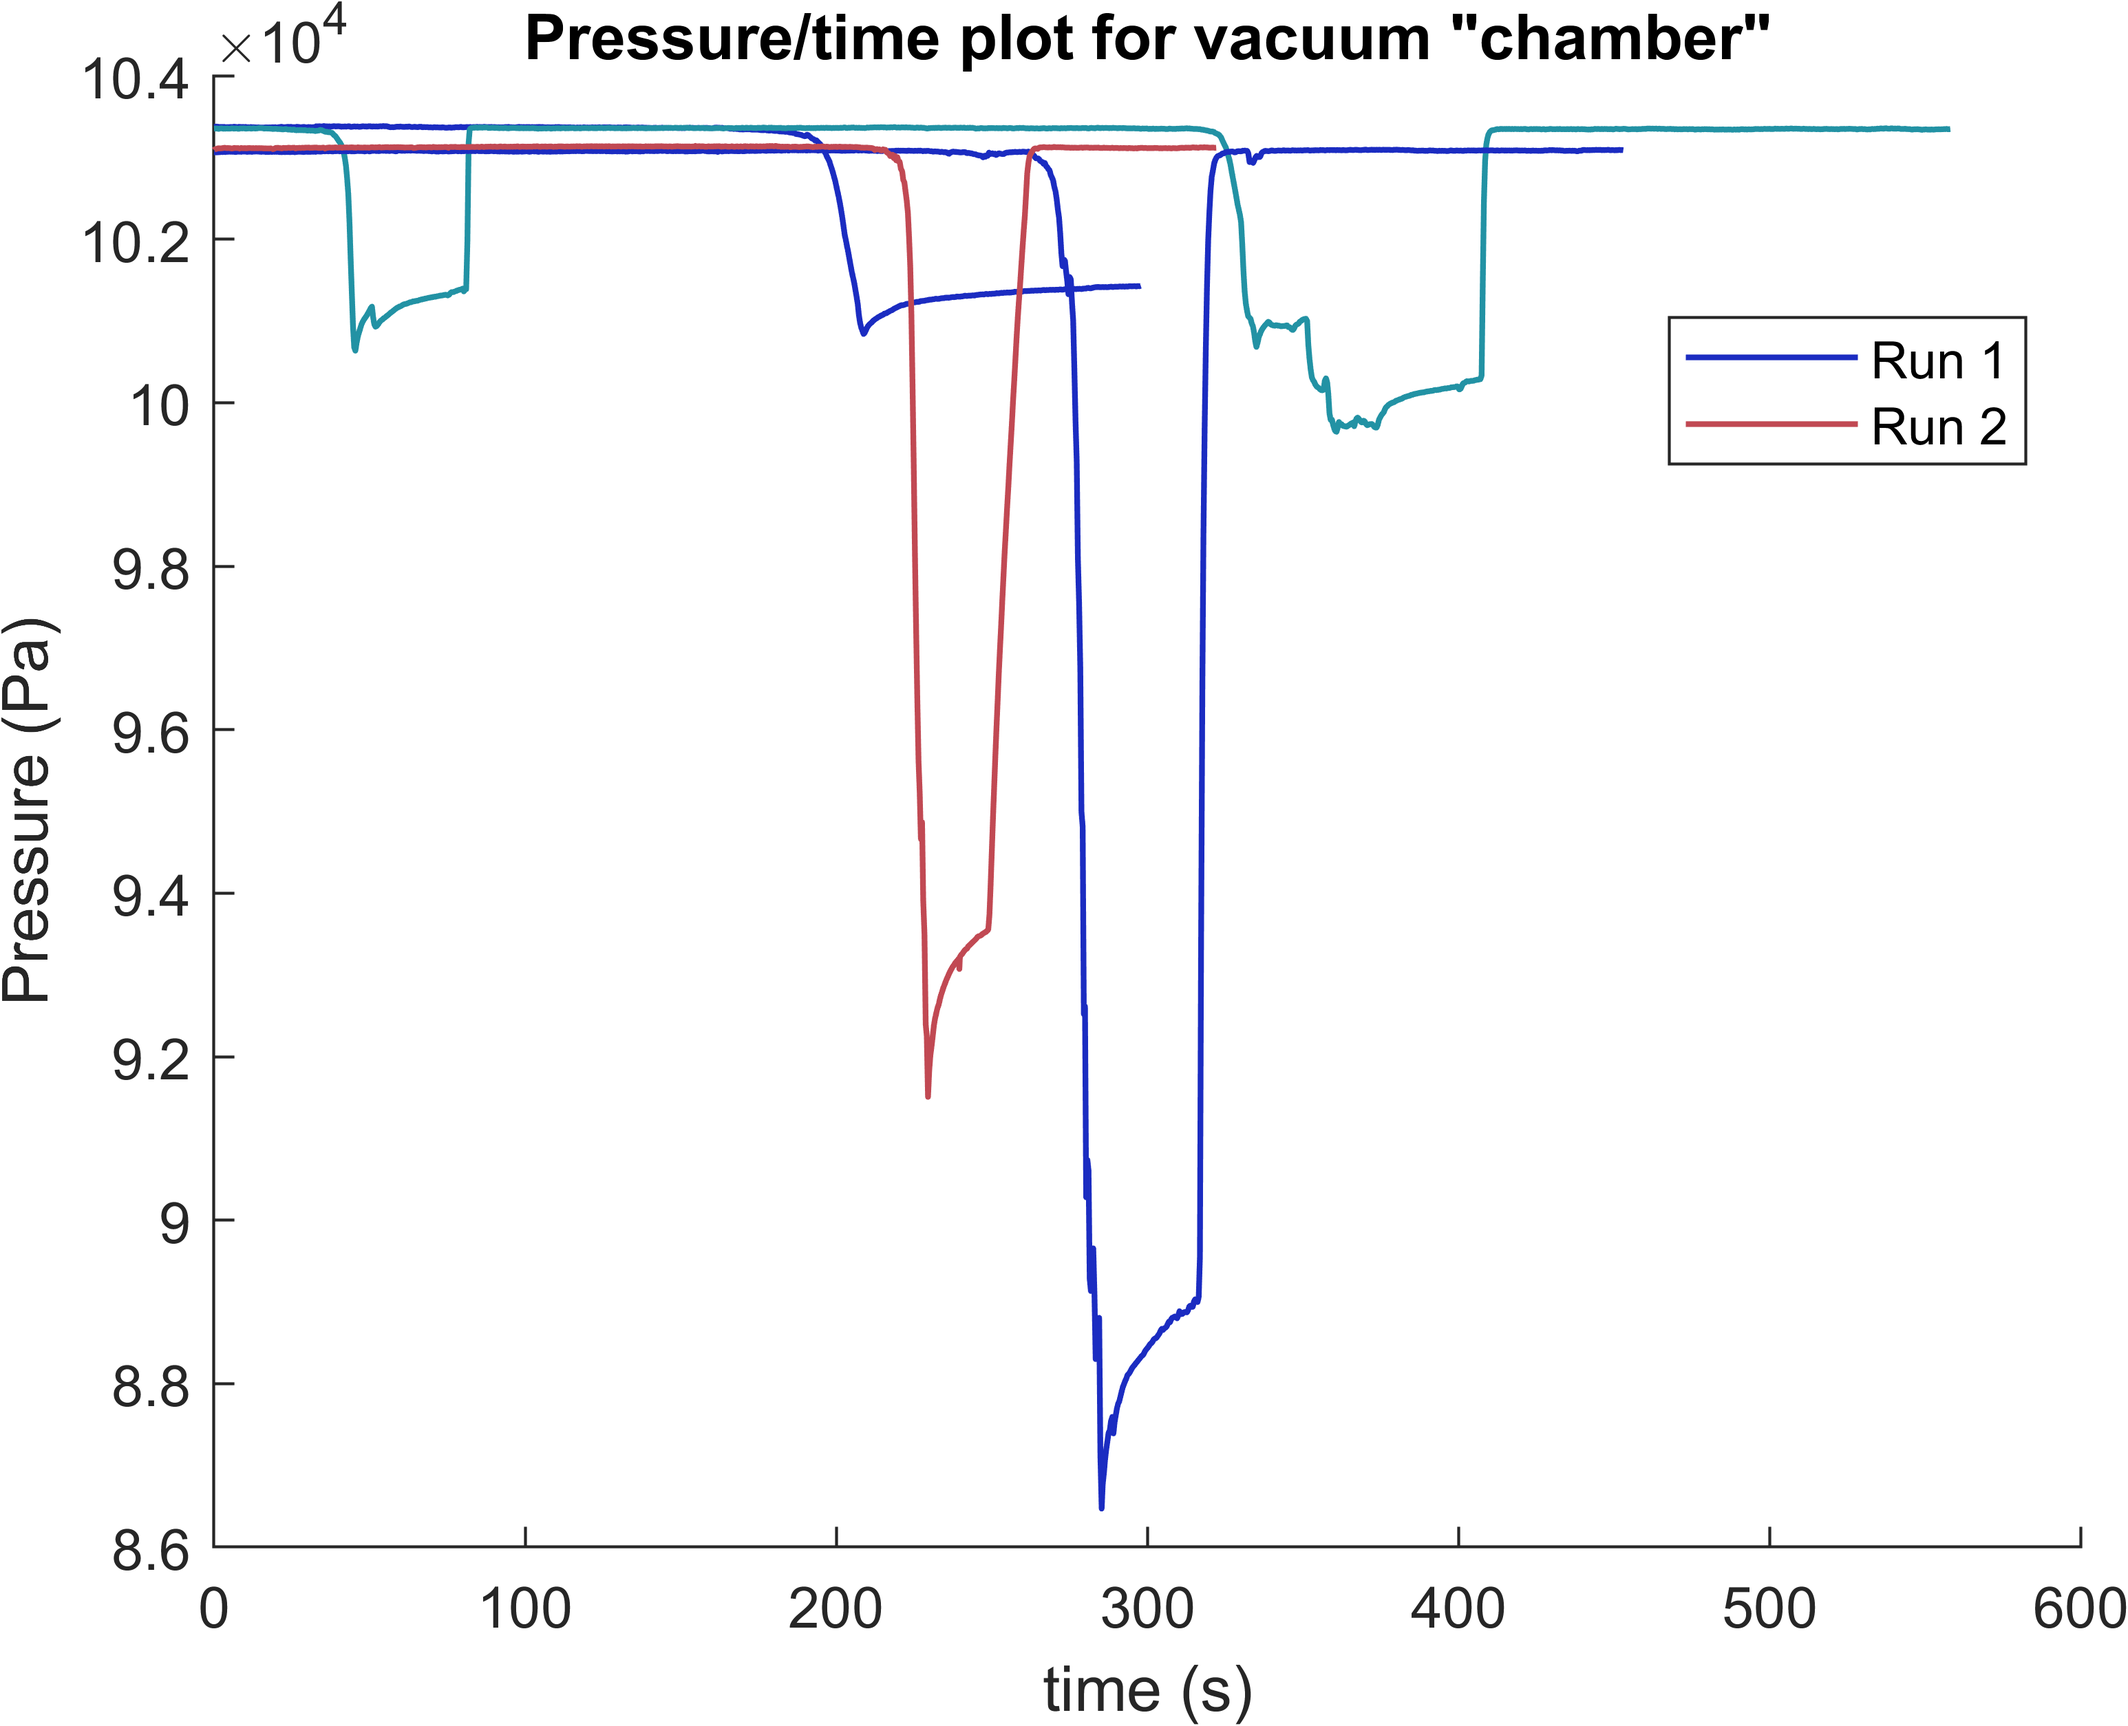
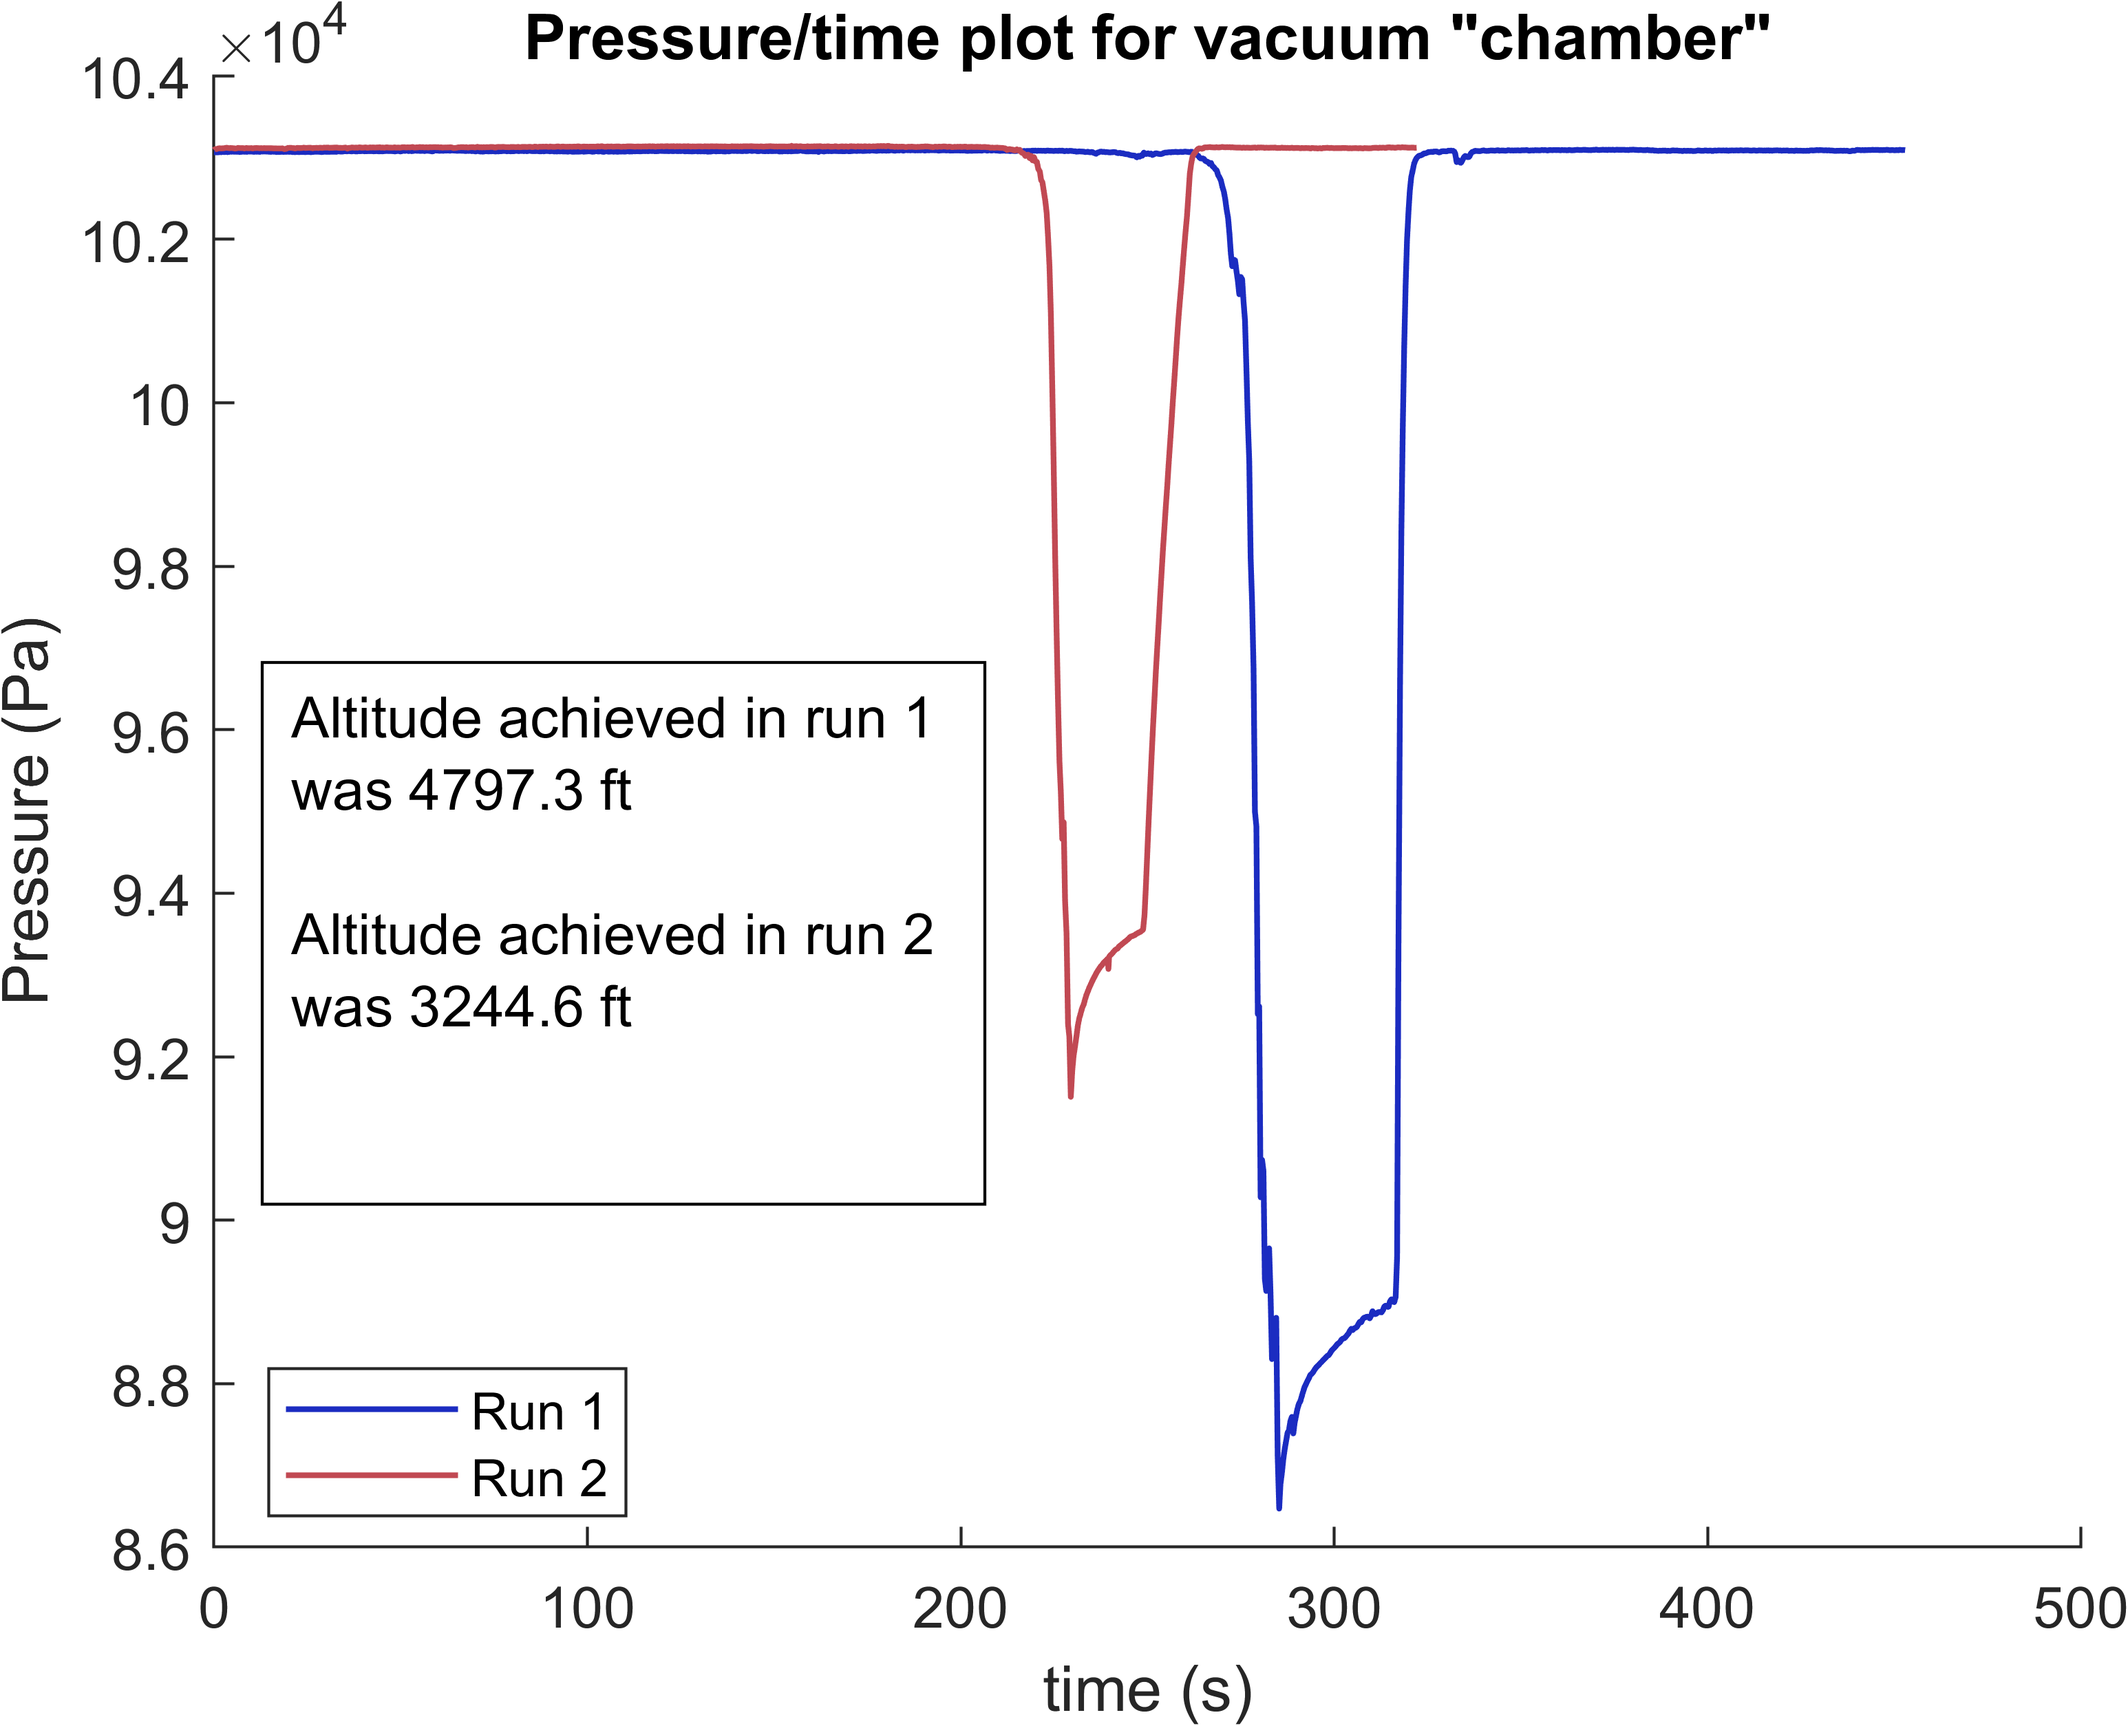
update plotter code

diff --git a/code/vacuum_chamber/data/plotter.m b/code/vacuum_chamber/data/plotter.m
@@ -5,11 +5,11 @@ calib = 102800;
 data1 = readmatrix('pnut1.csv');
 data2 = readmatrix('pnut2.csv');
 
-data1 = readmatrix('vactest1.csv');
-data2 = readmatrix('vactest2.csv');
-data3 = readmatrix('vactest3.csv');
-data4 = readmatrix('pnut1.csv');
-data5 = readmatrix('pnut2.csv');
+% data1 = readmatrix('vactest1.csv');
+% data2 = readmatrix('vactest2.csv');
+% data3 = readmatrix('vactest3.csv');
+% data4 = readmatrix('pnut1.csv');
+% data5 = readmatrix('pnut2.csv');
 
 col1 = '#1B2CC1';
 col2 = '#C14953';
@@ -22,22 +22,28 @@ hold on
 
 plot(data1(:, 1), data1(:, 2), 'Color', col1, 'LineWidth', 1)
 plot(data2(:, 1), data2(:, 2), 'Color', col2, 'LineWidth', 1)
-plot(data3(:, 1), data3(:, 2), 'Color', col3, 'LineWidth', 1)
-plot(data4(:, 1), data4(:, 2), 'Color', col1, 'LineWidth', 1)
-plot(data5(:, 1), data5(:, 2), 'Color', col2, 'LineWidth', 1)
+% plot(data3(:, 1), data3(:, 2), 'Color', col3, 'LineWidth', 1)
+% plot(data4(:, 1), data4(:, 2), 'Color', col1, 'LineWidth', 1)
+% plot(data5(:, 1), data5(:, 2), 'Color', col2, 'LineWidth', 1)
 
 title('Pressure/time plot for vacuum "chamber"')
 xlabel('time (s)')
 ylabel ('Pressure (Pa)')
 legend('Run 1', 'Run 2', 'Location', 'best')
-exportgraphics(gcf, 'testing-16mar.png', 'Resolution', 600);
 
-heights = atmospalt([calib min(data1(:, 2)) min(data2(:, 2)) min(data3(:, 2))]);
+
+heights = atmospalt([calib min(data1(:, 2)) min(data2(:, 2))]);
 
 deltah1 = heights(2) - heights(1);
 deltah2 = heights(3) - heights(1);
-deltah3 = heights(4) - heights(1);
+% deltah3 = heights(4) - heights(1);
 
-fprintf ('Altitude achieved in run 1 was %.1f ft \n', deltah1/0.3);
-fprintf ('Altitude achieved in run 2 was %.1f ft \n', deltah2/0.3);
-fprintf ('Altitude achieved in run 3 was %.1f ft', deltah3/0.3);
+lab1 = sprintf ('Altitude achieved in run 1 was %.1f ft\n', deltah1/0.3);
+lab2 = sprintf ('Altitude achieved in run 2 was %.1f ft\n', deltah2/0.3);
+
+% fprintf ('Altitude achieved in run 3 was %.1f ft', deltah3/0.3);
+% text((data1(find(data1(:, 2) == min(data1(:, 2))))), min(data1(:, 2)), lab1);
+outcome = {lab1, lab2};
+dim = [0.15 0.3 0.3 0.3];
+annotation('textbox', dim, 'String', outcome, 'FitBoxToText', 'off');
+exportgraphics(gcf, 'testing-16mar.png', 'Resolution', 600);
